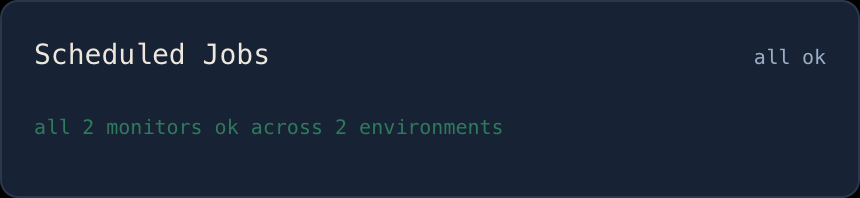
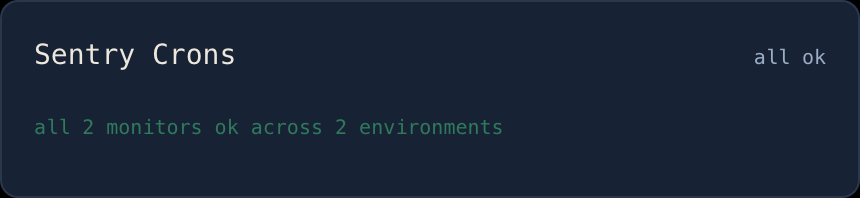
feat(dashboard): panel names: GitHub Runners, Sentry Crons, and the site says Service Health
Closes #665

Changed region(s): [[0.0605, 0.2121, 0.3326, 0.3636]]

diff --git a/tests/frontend/dashboard.spec.js b/tests/frontend/dashboard.spec.js
@@ -1456,7 +1456,7 @@ test('runner groups open the shared inline Detail panel like machines', async ({
   await inspector.getByRole('button', {name:'Close', exact:true}).click();
   await expect(inspector).toBeHidden();
   await openDetail(page, 'ghRunners');
-  await expect(inspector.getByRole('heading')).toHaveText('Runners');
+  await expect(inspector.getByRole('heading')).toHaveText('GitHub Runners');
   await expect(inspector.locator('.db-detail-resource')).toHaveCount(6);
 });
 
@@ -1746,7 +1746,7 @@ test("hidden library previews the saved scope and restores the original slot", a
   await expect(page.locator(".db-hidden-library img")).toHaveCount(0);
   await page.locator('.db-hidden-list [data-id="overview-ghRunners"]').click();
   await expect(page.locator('.db-hidden-list [data-id="overview-ghRunners"]')).toBeFocused();
-  await expect(page.locator(".db-hidden-preview .db-tile-title")).toHaveText("Runners");
+  await expect(page.locator(".db-hidden-preview .db-tile-title")).toHaveText("GitHub Runners");
   await page.locator('.db-hidden-list [data-id="overview-hosts"]').click();
   await action(page, "restore").focus();
   const reads = await page.evaluate(() => window.__CALLS__.filter(c => c.command === "dashboard_view").length);
@@ -1889,7 +1889,7 @@ test("tile placement previews an insertion without moving saved tiles, then pers
   await page.locator("#dashboard-title").fill("Build machines");
   await page.locator("#dashboard-width").selectOption("wide");
   await expect(page.locator('.db-placement-tile[aria-current="true"]')).toHaveAttribute("data-width", "wide");
-  const order = ["Machines", "GitHub Repos", "Build machines", "Runners", "Service Health", "Scheduled Jobs"];
+  const order = ["Machines", "GitHub Repos", "Build machines", "GitHub Runners", "Service Health", "Sentry Crons"];
   await expect(page.locator(".db-placement-title")).toHaveText(order);
   await expect(page.locator(".db-grid .db-tile-title")).toHaveText(original.tiles.map(t => t.title));
   expect(await savedLayout(page)).toBeNull();
@@ -2444,7 +2444,7 @@ test("a scope that keeps nothing shows the tile's own sentence in its Full view 
 // layout built so each source's chip leads somewhere different (`chips_layout`
 // in main.rs): Machines has two tiles that keep every row, Repos one tile
 // scoped `healthy` (it misses the failing repos), Runners only a hidden tile,
-// Services and Scheduled Jobs one covering tile each, and the rest no tile.
+// Service Health and Sentry Crons one covering tile each, and the rest no tile.
 const chip = (page, text) => action(page, "attention").filter({ hasText: text });
 const inspector = (page) => page.locator("#dashboardInspector");
 const chipTarget = (model, source) => model.attention.find((a) => a.source === source).target;
@@ -2452,7 +2452,7 @@ const chipTarget = (model, source) => model.attention.find((a) => a.source === s
 test("a chip fully covered by one visible tile opens that tile's Detail, filtered to its scope", async ({ page, baseURL }) => {
   const model = await openDashboard(page, baseURL, "chips");
   expect(chipTarget(model, "sentryCrons")).toEqual({ tile: "overview-sentryCrons" });
-  await chip(page, "Scheduled Jobs").click();
+  await chip(page, "Sentry Crons").click();
   await expect(inspector(page)).toHaveAttribute("data-kind", "details");
   const rows = model.sources.find((s) => s.id === "sentryCrons").rows;
   const scoped = rows.filter((r) => r.scopes.includes("active"));
@@ -2525,7 +2525,7 @@ test("a hidden tile is never a chip's target", async ({ page, baseURL }) => {
   const hidden = model.layout.tiles.find((t) => t.source === "ghRunners");
   expect(hidden.hidden).toBe(true);
   const { trouble } = chipTarget(model, "ghRunners");
-  await chip(page, "Runners").click();
+  await chip(page, "GitHub Runners").click();
   await expect(inspector(page)).toHaveAttribute("data-kind", "trouble");
   await expect(inspector(page).getByRole("button", { name: trouble.add.label, exact: true })).toBeVisible();
   await expect(inspector(page).locator(`[data-id="${hidden.id}"]`)).toHaveCount(0);
@@ -2708,7 +2708,7 @@ test("the overview's read leaves a tile's Full view in place", async ({ page, ba
     window.__RUNNER_NODE__.isConnected &&
     document.querySelector("#runnersBody .gh-runner-name") === window.__RUNNER_NODE__)).toBe(true);
   // The tick still paints the tile's heading.
-  await expect(page.locator("#runnersTitle")).toHaveText("Runners");
+  await expect(page.locator("#runnersTitle")).toHaveText("GitHub Runners");
 });
 
 test("two tiles of one source each open their own scope", async ({ page, baseURL }) => {
@@ -2742,7 +2742,7 @@ test("a runner group carries into the tile's Full view", async ({ page, baseURL 
   await expect.poll(() => lastArgs(page, "runners")).toEqual({ tile: "overview-ghRunners" });
   await expect(page.locator("#runnersBody .gh-runner-filter")).toContainText("LINUX · ARM64");
   await expect(page.locator("#runnersBody .gh-runner-name")).toHaveText(["ubu-01", "ubu-1", "ubu-spare"]);
-  await expect(page.locator("#runnersTitle")).toHaveText("Runners");
+  await expect(page.locator("#runnersTitle")).toHaveText("GitHub Runners");
   // The group filter repaints the panel before the tile's name is painted;
   // leaving still restores the panel's own title.
   await page.keyboard.press("Escape");
@@ -3029,7 +3029,7 @@ test("one GitHub cadence is on both of its tiles, and a save from either moves b
   const [repos] = cadencesOf(model, "ghWorkflows");
   const [runners] = cadencesOf(model, "ghRunners");
   expect(runners).toEqual(repos);
-  expect(repos.shared).toContain("every GitHub Repos tile and every Runners tile");
+  expect(repos.shared).toContain("every GitHub Repos tile and every GitHub Runners tile");
   for (const [saveIn, readIn] of [["ghWorkflows", "ghRunners"], ["ghRunners", "ghWorkflows"]]) {
     await page.goto(baseURL);
     const section = await configureCadence(page, saveIn, "github");
@@ -3429,7 +3429,7 @@ test("Edit inside a tile's Full view opens that tile's Configure on its Full vie
   await page.locator('.db-chrome [data-action="edit"]').click();
   await expect(page.locator("#dashboardOverview")).toBeVisible();
   await expect(page.locator("#dashboardForm")).toBeVisible();
-  await expect(page.locator("#dashboard-title")).toHaveValue("Runners");
+  await expect(page.locator("#dashboard-title")).toHaveValue("GitHub Runners");
   await expect(pageButton(page, "Full view")).toHaveAttribute("aria-pressed", "true");
   await expect(configPage(page, "full")).toBeVisible();
   await expect(configPage(page, "tile")).toBeHidden();
@@ -3455,4 +3455,38 @@ test("a tile's Detail follows its own Table/List and the in-Detail toggle writes
   await openDetail(page, "hosts");
   await expect(page.getByRole("button", { name: "Table", exact: true })).toHaveAttribute("aria-pressed", "true");
   expect(await savedTile(page, "overview-hosts")).toMatchObject({ detailView: "table" });
+});
+
+// The operator's settled names (#665): GitHub Runners, Service Health, Sentry
+// Crons. They head the default tiles, the Add-tile picker and an added tile's
+// starting title, and "GitHub Runners" is the longest of them, so it must
+// survive a small tile and the Full view heading with every character.
+const untruncated = (locator) =>
+  locator.evaluate((el) => el.scrollWidth <= Math.ceil(el.getBoundingClientRect().width));
+
+test("the settled panel names head the overview tiles, the Add-tile picker and an added tile (#665)", async ({ page, baseURL }) => {
+  await page.setViewportSize({ width: 900, height: 900 });
+  await openDashboard(page, baseURL);
+  const runnersTitle = tile(page, "ghRunners").locator(".db-tile-title");
+  await expect(runnersTitle).toHaveText("GitHub Runners");
+  await expect(tile(page, "services").locator(".db-tile-title")).toHaveText("Service Health");
+  await expect(tile(page, "sentryCrons").locator(".db-tile-title")).toHaveText("Sentry Crons");
+  expect(await untruncated(runnersTitle), "a small tile keeps every character of its title").toBe(true);
+
+  await action(page, "edit").click();
+  await action(page, "catalog").click();
+  for (const [id, name] of [["ghRunners", "GitHub Runners"], ["services", "Service Health"], ["sentryCrons", "Sentry Crons"]]) {
+    await expect(page.locator(`[data-action="add"][data-id="${id}"] strong`)).toHaveText(name);
+  }
+  await page.locator('[data-action="add"][data-id="ghRunners"]').click();
+  await expect(page.locator("#dashboard-title")).toHaveValue("GitHub Runners");
+});
+
+test("a Runners tile's Full view is headed by the whole name 'GitHub Runners' (#665)", async ({ page, baseURL }) => {
+  await page.setViewportSize({ width: 900, height: 900 });
+  await openDashboard(page, baseURL);
+  await openFull(page, "ghRunners");
+  const title = page.locator("#runnersTitle");
+  await expect(title).toHaveText("GitHub Runners");
+  expect(await untruncated(title), "the Full view heading is not ellipsised").toBe(true);
 });

diff --git a/tests/frontend/github.spec.js b/tests/frontend/github.spec.js
@@ -327,7 +327,7 @@ test("the Runners panel paints Rust's stats, chips and trailing label", async ({
 
   // A tile's Full view is headed by the tile's own name (#640), not the
   // payload's `title`; this tile is named for its source.
-  await expect(page.locator("#runnersTitle")).toHaveText("Runners");
+  await expect(page.locator("#runnersTitle")).toHaveText("GitHub Runners");
   await expect(page.locator("#runnersTrailing")).toHaveText(runners.trailing);
   expect(runners.trailing, "the fixture must exercise the missing count").toContain("missing");
 
@@ -592,7 +592,7 @@ test("a Runners error does not make the card taller", async ({ page, baseURL }) 
   // the warning appeared. The message is what ellipsises now, not the label.
   const title = page.locator("#runnersTitle");
   // The tile's own name heads its Full view (#640), not the payload's title.
-  await expect(title).toHaveText("Runners");
+  await expect(title).toHaveText("GitHub Runners");
   const [titled, staled] = await Promise.all([title.boundingBox(), page.locator("#runnersStale").boundingBox()]);
   expect(titled.width, "the panel keeps its name when it degrades").toBeGreaterThan(0);
   expect(
@@ -827,7 +827,7 @@ test("the verdict costs no height and does not truncate", async ({ page, baseURL
     "the verdict is never the element that ellipsises"
   ).toBe(true);
   // The tile's own name heads its Full view (#640), not the payload's title.
-  await expect(page.locator("#runnersTitle")).toHaveText("Runners");
+  await expect(page.locator("#runnersTitle")).toHaveText("GitHub Runners");
 });
 
 // MARK: - Injection

diff --git a/tests/frontend/crons.spec.js b/tests/frontend/crons.spec.js
@@ -50,7 +50,7 @@ test("the panel paints one row per failing environment, in Rust's order", async 
   await expect(page.locator("#cronsPanel")).toBeVisible();
   // A tile's Full view is headed by the tile's own name (#640), not the
   // payload's `title`; this tile is named for its source.
-  await expect(page.locator("#cronsTitle")).toHaveText("Scheduled Jobs");
+  await expect(page.locator("#cronsTitle")).toHaveText("Sentry Crons");
   await expect(page.locator("#cronsTrailing")).toHaveText(vm.trailing);
 
   // Order is Rust's: oldest first, with the entries nobody can put a number on

diff --git a/site/index.html b/site/index.html
@@ -153,7 +153,7 @@
           <li class="tile">
             <div class="tile-shot"><img src="/assets/screenshots/panel-services.png" alt="Vendor status: GitHub, Anthropic, Vercel, Neon and Azure, all operational." loading="lazy" width="860" height="288"></div>
             <div class="tile-body">
-              <h3>Services</h3>
+              <h3>Service Health</h3>
               <p>Status pages for the vendors you already use, with a desktop notification when one changes.</p>
             </div>
           </li>

diff --git a/app/src-tauri/src/dashboard.rs b/app/src-tauri/src/dashboard.rs
@@ -24,9 +24,9 @@ pub const COCKPIT_LOAD_FAILED: &str = "Could not load the machine cards for the 
 pub const SOURCES: [(&str, &str); 9] = [
     ("hosts", "Machines"),
     ("ghWorkflows", "GitHub Repos"),
-    ("ghRunners", "Runners"),
+    ("ghRunners", "GitHub Runners"),
     ("services", "Service Health"),
-    ("sentryCrons", "Scheduled Jobs"),
+    ("sentryCrons", "Sentry Crons"),
     ("containers", "Containers / VMs"),
     ("claudeUsage", "Usage"),
     ("azureCost", "Azure Cost"),
@@ -2210,6 +2210,35 @@ mod tests {
         assert!(list(&source, "detailColumns")
             .iter()
             .any(|c| c["label"] == "Labels"));
+    }
+
+    #[test]
+    fn the_default_tile_names_are_the_operators_settled_names() {
+        let titles: Vec<_> = SOURCES.iter().map(|(_, t)| *t).collect();
+        assert_eq!(
+            titles,
+            [
+                "Machines",
+                "GitHub Repos",
+                "GitHub Runners",
+                "Service Health",
+                "Sentry Crons",
+                "Containers / VMs",
+                "Usage",
+                "Azure Cost",
+                "OpenClaw",
+            ]
+        );
+    }
+
+    #[test]
+    fn a_saved_tile_titled_with_an_old_default_keeps_that_title() {
+        let payload = crate::dump_github(false, true);
+        let source = source_view("ghRunners", "GitHub Runners", &payload);
+        for (kind, old) in [("ghRunners", "Runners"), ("sentryCrons", "Scheduled Jobs")] {
+            let tile = DashboardTile::new("saved", kind, old, "all");
+            assert_eq!(tile_view(&tile, &source)["title"], old);
+        }
     }
 
     #[test]

diff --git a/app/src-tauri/src/settings.rs b/app/src-tauri/src/settings.rs
@@ -1201,7 +1201,7 @@ fn general_tab(settings: &Settings, crash: CrashFacts) -> Value {
         // Where the shared Refresh Interval went (#615), said once so an
         // operator who looks for it is told rather than left to wonder. Each
         // source polls on its own cadence, edited in its tile's Configure.
-        "cadenceNote": "Poll cadences are set per source, in the Configure of the tile it feeds (GitHub Repos and Runners, Service Health, Usage, Containers, Azure Cost, Scheduled Jobs). Host metrics poll every second regardless — that cadence is the charts' time axis.",
+        "cadenceNote": "Poll cadences are set per source, in the Configure of the tile it feeds (GitHub Repos and Runners, Service Health, Usage, Containers, Azure Cost, Sentry Crons). Host metrics poll every second regardless — that cadence is the charts' time axis.",
         "crashReporting": crash_reporting_section(settings, crash),
     })
 }

diff --git a/app/src-tauri/src/cadence.rs b/app/src-tauri/src/cadence.rs
@@ -206,7 +206,7 @@ mod tests {
         assert_eq!(sections[0]["value"], json!(300));
         assert_eq!(
             sections[0]["shared"],
-            json!("Shared \u{b7} saved immediately \u{b7} applies to every GitHub Repos tile and every Runners tile and their Full views.")
+            json!("Shared \u{b7} saved immediately \u{b7} applies to every GitHub Repos tile and every GitHub Runners tile and their Full views.")
         );
     }
 

diff --git a/crates/store/src/dashboard.rs b/crates/store/src/dashboard.rs
@@ -147,9 +147,9 @@ pub struct DashboardLayout {
 pub const SHIPPED_TILES: [(&str, &str); 5] = [
     ("hosts", "Machines"),
     ("ghWorkflows", "GitHub Repos"),
-    ("ghRunners", "Runners"),
+    ("ghRunners", "GitHub Runners"),
     ("services", "Service Health"),
-    ("sentryCrons", "Scheduled Jobs"),
+    ("sentryCrons", "Sentry Crons"),
 ];
 
 impl DashboardLayout {

diff --git a/app/README.md b/app/README.md
@@ -1,9 +1,12 @@
 # Solador Cross-Platform Cockpit (`app/`)
 
 The macOS/Windows cockpit: a [Tauri v2](https://v2.tauri.app) app opening on a
-compact overview of **Machines**, **GitHub Repos**, **Runners**, **Service Health**
-and **Scheduled jobs**. **Edit dashboard** changes tile order, visibility, scope,
-presentation and width. **Add tile** also offers Containers/VMs, Usage, Azure Cost
+compact overview of **Machines**, **GitHub Repos**, **GitHub Runners**, **Service Health**
+and **Sentry Crons**. **Edit dashboard** changes tile order, visibility, scope,
+presentation and width. A tile stores its own title, so these are the names a
+new layout, an added tile and a new tile's Full view start with: a saved tile
+keeps the title it was saved with (an existing "Runners" or "Scheduled Jobs"
+tile stays that until you rename it in Configure; there is no migration). **Add tile** also offers Containers/VMs, Usage, Azure Cost
 and OpenClaw. Each tile opens its readings in Detail, and Detail opens the tile's own
 **Full view** (see [Dashboard tiles](#dashboard-tiles)); **Escape**
 returns from a Full view to the overview. Connections and credentials remain
@@ -315,7 +318,7 @@ a busy repo Failed. The column and direction are saved per tile; numeric columns
 start descending, Repo and Status ascending.
 
 Runners default to **By OS, architecture and group labels** (the shipped overview tile and any
-Runners tile you add start there); **Individual runners** is one click away. A
+GitHub Runners tile you add start there); **Individual runners** is one click away. A
 saved tile that says `list`, or carries no choice, stays a list.
 Each type shows busy / online (`2/3 busy`, or `none online`), then busy, idle
 and offline counts, plus recycling, missing or unknown counts when present. A
@@ -357,9 +360,9 @@ panels fit their rows rather than reserving an empty list area.
 Architecture comes from GitHub's ARM64, X64 or ARM labels and survives in the
 absence roster. Missing or conflicting labels render Unknown architecture.
 **Runner group labels** split a type further, by labels your runners carry.
-They are edited in any Runners tile's **Configure**, under **Group by labels**:
+They are edited in any GitHub Runners tile's **Configure**, under **Group by labels**:
 a shared setting, saved on the click, that applies everywhere runners appear —
-every Runners tile and the Full view (see [Where a setting
+every GitHub Runners tile and the Full view (see [Where a setting
 lives](#where-a-setting-lives)). **A type splits only where a listed label
 appears**: list `runner-large` and, if a Linux · X64 runner carries it, Linux ·
 X64 becomes `LINUX · X64 · runner-large` and `LINUX · X64 · other`, while a type
@@ -555,8 +558,8 @@ acknowledging a warning in Detail, are shortcuts, not homes, and are not ruled
 on here.
 
 **Worked example: runner group labels** (rule 4). The labels change what every
-Runners tile and the Full view show, so they are edited where the groups are
-seen, in a Runners tile's Configure → **Group by labels**, and the section says
+GitHub Runners tile and the Full view show, so they are edited where the groups are
+seen, in a GitHub Runners tile's Configure → **Group by labels**, and the section says
 `Shared · saved immediately · applies everywhere runners appear: every Runners
 tile and the Full view.` They save on the click (`runner_group_label_add` /
 `_move` / `_remove`), not with the tile's **Apply**, because a shared list cannot
@@ -570,13 +573,13 @@ does not fit it yet:
 | Setting | Lives in | Fits? |
 |---|---|---|
 | Rows to show, repo checklist, Disk strip, runner view (and Repos sorting, by its column headers) | the tile's Configure, or the tile itself | rule 1 |
-| Runner group labels | Runners tile Configure, marked shared | rule 4 |
+| Runner group labels | GitHub Runners tile Configure, marked shared | rule 4 |
 | Container Group Rules | Containers tile Configure, marked shared (#613) | rule 4 |
 | Accounts, tokens, hosts, providers | Settings → Connections | rule 2 |
 | Crash reporting, updates | Settings | rule 3 |
 | CPU/RAM thresholds, per-machine overrides, the hidden-volume list | Machines tile Configure (**Machine alerts**, **Volumes shown**), marked shared; the Disk strip's and Detail's Hide / Unhide stay as shortcuts | rule 4 ([#612](https://github.com/Sassy-Dog/solador/issues/612)) |
-| Poll cadence of Containers, GitHub (Repos and Runners), Services, Usage (Claude rollups; metered providers; plan limits), Azure Cost and Scheduled Jobs | that source's tile Configure (**Poll cadence**), marked shared, with its floor and the reason for it ([#614](https://github.com/Sassy-Dog/solador/issues/614)) | rule 4 |
-| Refresh Interval (it drove GitHub, Services and the Claude rollups together) | **split, not moved** ([#615](https://github.com/Sassy-Dog/solador/issues/615)): neither rule 3 nor rule 4 as one setting, because it drove two unrelated loops and rule 4 would have made one tile's Configure move three other tiles. Each source now has its own cadence and its own floor, edited in its tile's Configure like the rest; GitHub's is one cadence on **both** the Repos and the Runners tile. A store that had chosen 30s or 5m is carried into all three on load. Settings → Preferences no longer has it, and says where the cadences went | rule 4 |
+| Poll cadence of Containers, GitHub (Repos and Runners), Services, Usage (Claude rollups; metered providers; plan limits), Azure Cost and Sentry Crons | that source's tile Configure (**Poll cadence**), marked shared, with its floor and the reason for it ([#614](https://github.com/Sassy-Dog/solador/issues/614)) | rule 4 |
+| Refresh Interval (it drove GitHub, Services and the Claude rollups together) | **split, not moved** ([#615](https://github.com/Sassy-Dog/solador/issues/615)): neither rule 3 nor rule 4 as one setting, because it drove two unrelated loops and rule 4 would have made one tile's Configure move three other tiles. Each source now has its own cadence and its own floor, edited in its tile's Configure like the rest; GitHub's is one cadence on **both** the Repos and the GitHub Runners tile. A store that had chosen 30s or 5m is carried into all three on load. Settings → Preferences no longer has it, and says where the cadences went | rule 4 |
 | CPU core rows, Row spacing, host overflow, Detail / Full view Table-or-List | the tile's Configure → **Full view** / **Detail** page, per tile | rule 1 ([#647](https://github.com/Sassy-Dog/solador/issues/647)) |
 
 ### Settings and connections
@@ -2289,7 +2292,7 @@ Two things worth knowing about this surface:
   [#614](https://github.com/Sassy-Dog/solador/issues/614) the control is in the
   Configure of the tile(s) each feeds (**Poll cadence** — Containers, GitHub
   Repos and Runners, Service Health, Usage (three: its Claude rollups, metered
-  providers and plans), Azure Cost, Scheduled Jobs), not
+  providers and plans), Azure Cost, Sentry Crons), not
   here; it was this tab's **Panel Poll Cadence**
   group ([#337](https://github.com/Sassy-Dog/solador/issues/337)). It says it is
   shared by every tile of that source and the Full view, saves on the click
@@ -3044,12 +3047,12 @@ and that immediacy is itself the check on the corresponding wake:
 | `settings_test_host` | press **Test** on the seeded host | `✓ <host> · agent v<version>`, or `✗ unreachable …`, or `✗ auth failed (401) …` with no token |
 | pairing a TLS agent (`settings_probe_host_certificate`, the pinned client, **Re-pair**) | against a real agent with `SOLADOR_AGENT_TLS=1` (a fresh `install.sh` install): Settings → Connections → **Add connection** → Remote host, fill name, address and the token, press **Check certificate**. Compare the fingerprint with `solador-agent tls-fingerprint` on the host. Note **Add Host** is disabled; press **Trust**, then **Add Host**. Then press **Test** on the new host. Finally, on the agent host, delete `solador-agent.tls.key` and `.crt` and restart the service, and watch the host | the probe shows a 95-character colon-hex fingerprint **identical** to the agent's, and *nothing is saved before Trust* (relaunch mid-flow: the host is not there). After Trust + Add the card fills with live figures, and **Test** reads `✓ …`. After the certificate is regenerated the host's card reads **the agent's certificate changed — re-pair it in Settings** (not "couldn't reach"), **Test** reads `✗ certificate changed…`, the edit form offers **Re-pair**, and re-running Check certificate → Trust → Save brings the card back. Against an agent with TLS **off**, **Check certificate** reads "answers plain HTTP" with no Trust button and Add Host stays enabled. A missing fingerprint, a Trust button on a plain-HTTP agent, or a card that keeps polling after the certificate changed is the defect this row exists to catch |
 | the rules editor (`container_rule_add` / `_set` / `_remove`, #613) | **Edit dashboard** → the Containers tile's **Configure** → **Container Group Rules**: press **Add Rule**, set its action to **Hide**, then **Delete** it | the row appears with an empty pattern, saved on the click before **Apply**; switching to Hide drops the group-label and expected-count fields; **Delete** removes it. Settings → Connections → This machine has no rules editor at all. A rule that survives a relaunch with Apply never pressed is the intended behaviour; one that needs Apply is the defect |
-| Configure's three pages (`dashboard_save`, `TILE_VIEWS`, #647) | **Edit dashboard** → the Machines tile's **Configure**: the switch at the top reads **This tile** / **Detail** / **Full view**. On **Full view** set *CPU core rows* to `3`, *Host overflow* to **Show as tabs** and *Row spacing* to `8`, then **Apply** from that page; open a Runners tile's Configure and check its **Detail** and **Full view** pages each offer Table / List | one **Apply** saves all three pages. The Machines tile's Full view (View menu → **Full view**) shows three core rows and, with two hosts and a narrow window, a tab bar; list rows sit 8px apart. A value outside a field's range (*CPU core rows* `9`) is refused by the field before anything is saved, and pressing **Apply** from **This tile** with that value left on **Full view** switches back to **Full view** with the field focused (Rust refuses the same value on `dashboard_save`; it is clamped, not refused, only when read from a hand-edited `store.json`) |
+| Configure's three pages (`dashboard_save`, `TILE_VIEWS`, #647) | **Edit dashboard** → the Machines tile's **Configure**: the switch at the top reads **This tile** / **Detail** / **Full view**. On **Full view** set *CPU core rows* to `3`, *Host overflow* to **Show as tabs** and *Row spacing* to `8`, then **Apply** from that page; open a GitHub Runners tile's Configure and check its **Detail** and **Full view** pages each offer Table / List | one **Apply** saves all three pages. The Machines tile's Full view (View menu → **Full view**) shows three core rows and, with two hosts and a narrow window, a tab bar; list rows sit 8px apart. A value outside a field's range (*CPU core rows* `9`) is refused by the field before anything is saved, and pressing **Apply** from **This tile** with that value left on **Full view** switches back to **Full view** with the field focused (Rust refuses the same value on `dashboard_save`; it is clamped, not refused, only when read from a hand-edited `store.json`) |
 | Edit from a Full view | open any tile's **Full view** (tile **View** menu), then press **Edit** in the toolbar. Then press Escape, and press **Edit** on the overview | from the Full view, the overview opens with that tile's **Configure** on its **Full view** page; from the overview, **Configure** opens on **This tile** |
 | a failed `cockpit` read in a Machines tile's Full view (`dashboard::COCKPIT_LOAD_FAILED`, #667) | open a Machines tile's Full view while the `cockpit` command is failing (for example with the app's IPC unavailable, or a host list the read cannot build), then let it recover | the Full view shows Rust's sentence in the loading line's place, never a plain "loading"; when the next read succeeds the sentence goes and the host cards show |
 | `panel_interval_save` / `panel_interval_clear` | **Edit dashboard** → a Containers tile's **Configure** → **Poll cadence**: set it to `1` and press **Apply cadence**; then set it to `30` and **Apply cadence**; then press **Use default** | the `1` is **refused** — one sentence beside the section naming the panel, its 5-second floor, why that floor exists and what you asked for — the field keeps what you typed and the status still reads `Using the default, 10 seconds`, because nothing was written. `30` saves on the click, before the tile's **Apply**, the status becomes `Set to 30 seconds…` and **Use default** goes live; pressing it puts the status back to the default wording. The section says it is shared, and Settings → **Preferences** has no cadence group at all. A refusal that silently stores `5` instead is the defect this row exists to catch |
-| `panel_interval_save` (GitHub) | **Edit dashboard** → a Runners tile's **Configure** → **Poll cadence**: set it to `300` and **Apply cadence**; then open a GitHub Repos tile's **Configure** | the Runners tile's section names both tiles it is shared by; `300` saves on the click and the Repos tile's **Poll cadence** reads `Set to 5 minutes…` with no further action (one cadence, not one per tile). Service Health has a **Poll cadence** of its own and is unchanged, and a runner list 3 minutes old is not yet flagged stale (the window is 2.5 cycles). Settings → **Preferences** has no Refresh Interval, only a note saying where the cadences went |
-| `runner_group_label_add` / `runner_group_label_move` / `runner_group_label_remove` | with runners showing, **Edit dashboard** → the Runners tile's **Configure** → **Group by labels**: type a label one of your runners carries (e.g. `runner-large`) and press **Add**; type the same label in other capitals and **Add** again; add a second label from **Seen on your runners** and press **Move up** on it; then **Remove** both | the first saves on the click, before **Apply**, and the row reads `carried by N runners`; the tile preview splits only the type where a runner carries it into `· <label>` and `· other`, every other type stays plain, and after leaving editing a click on either group opens Detail onto exactly its runners, its Labels column highlighting the label that matched. The second is **refused** as already listed. **Move up** reorders the list, and a runner carrying both labels moves to the group of whichever label is now first. **Remove** puts the tile back to plain OS · architecture types, and Settings → **Preferences** has no group-label editor at all. A count of `no runner carries this label` for a label that is on screen is the defect this row exists to catch |
+| `panel_interval_save` (GitHub) | **Edit dashboard** → a GitHub Runners tile's **Configure** → **Poll cadence**: set it to `300` and **Apply cadence**; then open a GitHub Repos tile's **Configure** | the GitHub Runners tile's section names both tiles it is shared by; `300` saves on the click and the Repos tile's **Poll cadence** reads `Set to 5 minutes…` with no further action (one cadence, not one per tile). Service Health has a **Poll cadence** of its own and is unchanged, and a runner list 3 minutes old is not yet flagged stale (the window is 2.5 cycles). Settings → **Preferences** has no Refresh Interval, only a note saying where the cadences went |
+| `runner_group_label_add` / `runner_group_label_move` / `runner_group_label_remove` | with runners showing, **Edit dashboard** → the GitHub Runners tile's **Configure** → **Group by labels**: type a label one of your runners carries (e.g. `runner-large`) and press **Add**; type the same label in other capitals and **Add** again; add a second label from **Seen on your runners** and press **Move up** on it; then **Remove** both | the first saves on the click, before **Apply**, and the row reads `carried by N runners`; the tile preview splits only the type where a runner carries it into `· <label>` and `· other`, every other type stays plain, and after leaving editing a click on either group opens Detail onto exactly its runners, its Labels column highlighting the label that matched. The second is **refused** as already listed. **Move up** reorders the list, and a runner carrying both labels moves to the group of whichever label is now first. **Remove** puts the tile back to plain OS · architecture types, and Settings → **Preferences** has no group-label editor at all. A count of `no runner carries this label` for a label that is on screen is the defect this row exists to catch |
 | usage providers | save a Neon org key and/or Sentry `org:read` token | sections appear in seconds. A key with **no org id** renders `—` on both figures, never `0.0 CU-h` |
 | `machine_save_alerts` | **Edit dashboard** → the Machines tile's **Configure** → **Machine alerts**: under **Shared defaults** set RAM warning/critical to `90`/`98` and **Apply thresholds**; then in one machine's block clear **Use shared defaults**, choose its own limits and Apply; re-enable shared defaults and Apply | each saves on the click, before the tile's **Apply**; the next Machines frame uses the saved limits for meter colors, row dots and attention counts; another host's override stays independent. Invalid ordering is refused with Rust's sentence beside the block and the draft is kept, saved choices survive reopening the app, and Settings → **Preferences** and Connections carry no limits at all |
 | `machine_acknowledge_warning` | open a machine with a CPU/RAM warning in Details, acknowledge that metric, relaunch, then clear it from the same details (try Table and List) | the warning alone leaves Needs Attention, its reading stays amber with a ✓ beside the value, and the saved choice survives relaunch. A critical reading still needs attention and has no ✓. Other metrics/hosts still alert. Clear restores warning attention; a failed save leaves the prior choice visible and retryable |

diff --git a/README.md b/README.md
@@ -78,7 +78,7 @@ Volumes you don't care about can be hidden per machine from the tile, Detail or 
 and a Machines tile can drop its Disk strip. GitHub Repos supports
 per-tile repository selection, sortable columns and an All rows option.
 Runners can show every individual runner or counts grouped by OS and architecture,
-optionally split by runner labels you list in the Runners tile's Configure — `runner-large`,
+optionally split by runner labels you list in the GitHub Runners tile's Configure — `runner-large`,
 say, to see large and small runners apart. Only an OS and architecture where a runner
 carries one splits, and Detail and Full show every runner's labels.
 
@@ -91,7 +91,7 @@ carries one splits, and Detail and Full show every runner's labels.
 | **Usage** | Claude Code token rollups, the Claude and Codex plans' own 5-hour and weekly limits (opt-in), plus Neon, Sentry and Vercel consumption |
 | **Azure Cost** | the daily cost export, month to date |
 | **Sentry Crons** | every cron monitor that is not `ok`, and **how long it has been broken** |
-| **Services** | availability for the vendors you already read — GitHub, Anthropic, Vercel, Neon, Azure — plus any Atlassian Statuspage you add |
+| **Service Health** | availability for the vendors you already read — GitHub, Anthropic, Vercel, Neon, Azure — plus any Atlassian Statuspage you add |
 | **OpenClaw** | an [OpenClaw](crates/openclaw/) agent farm, over a live WebSocket — the one panel that is event-driven rather than polled |
 
 <details>
@@ -101,7 +101,7 @@ carries one splits, and Detail and Full show every runner's labels.
 |:--:|:--:|
 | ![Repos](site/assets/screenshots/panel-repos.png) | ![Runners](site/assets/screenshots/panel-runners.png) |
 | ![Containers](site/assets/screenshots/panel-containers.png) | ![Usage](site/assets/screenshots/panel-usage.png) |
-| ![Sentry Crons](site/assets/screenshots/panel-crons.png) | ![Services](site/assets/screenshots/panel-services.png) |
+| ![Sentry Crons](site/assets/screenshots/panel-crons.png) | ![Service Health](site/assets/screenshots/panel-services.png) |
 | ![Azure Cost](site/assets/screenshots/panel-azure-cost.png) | ![OpenClaw](site/assets/screenshots/panel-openclaw.png) |
 
 Each tile's own **Configure** has a **Full view** page for how its panel is
@@ -325,7 +325,7 @@ installer, an update check on macOS, and all nine panels.
 - **Windows has no update channel.** The app tells you that instead of
   pretending a check failed; you install the next release over the current one.
 - **Linux runs the agent, not the cockpit.**
-- **The Services panel only watches what you actually read.** The vendor list is
+- **The Service Health panel only watches what you actually read.** The vendor list is
   derived from your own configuration rather than shipped, so a cockpit with no
   credentials and no added status pages watches nothing and says so. That is
   deliberate — five hardcoded vendors are one maintainer's stack — but it does

diff --git a/docs/github-setup.md b/docs/github-setup.md
@@ -99,5 +99,5 @@ It is already watched by another account. The message names which one.
 Authenticated requests get **5,000/hour per token**. The Repos panel spends
 about **4 requests per repo per pass**, so roughly **20 repos at the default 60s
 cadence**, or about **100 at a 5-minute** cadence. If panels stop updating,
-either lengthen the **Poll cadence** in the Configure of a GitHub Repos or Runners tile (one cadence, shared by both),
+either lengthen the **Poll cadence** in the Configure of a GitHub Repos or GitHub Runners tile (one cadence, shared by both),
 watch fewer repos, or split them across two accounts with separate tokens.

diff --git a/docs/PANELS.md b/docs/PANELS.md
@@ -28,7 +28,7 @@
   frozen, and its footer says so (`runners_error_message`) instead of the
   PAT-scope hint.
   Runner groups are OS · architecture, split by the operator's **runner group
-  labels** (`store.json`'s `runner_group_labels`, edited in a Runners tile's
+  labels** (`store.json`'s `runner_group_labels`, edited in a GitHub Runners tile's
   Configure and marked shared — see **Where a setting lives** in
   `app/README.md`). **An OS · architecture splits only where a listed label
   appears**: into one group per listed label a runner carries, plus `other`;
